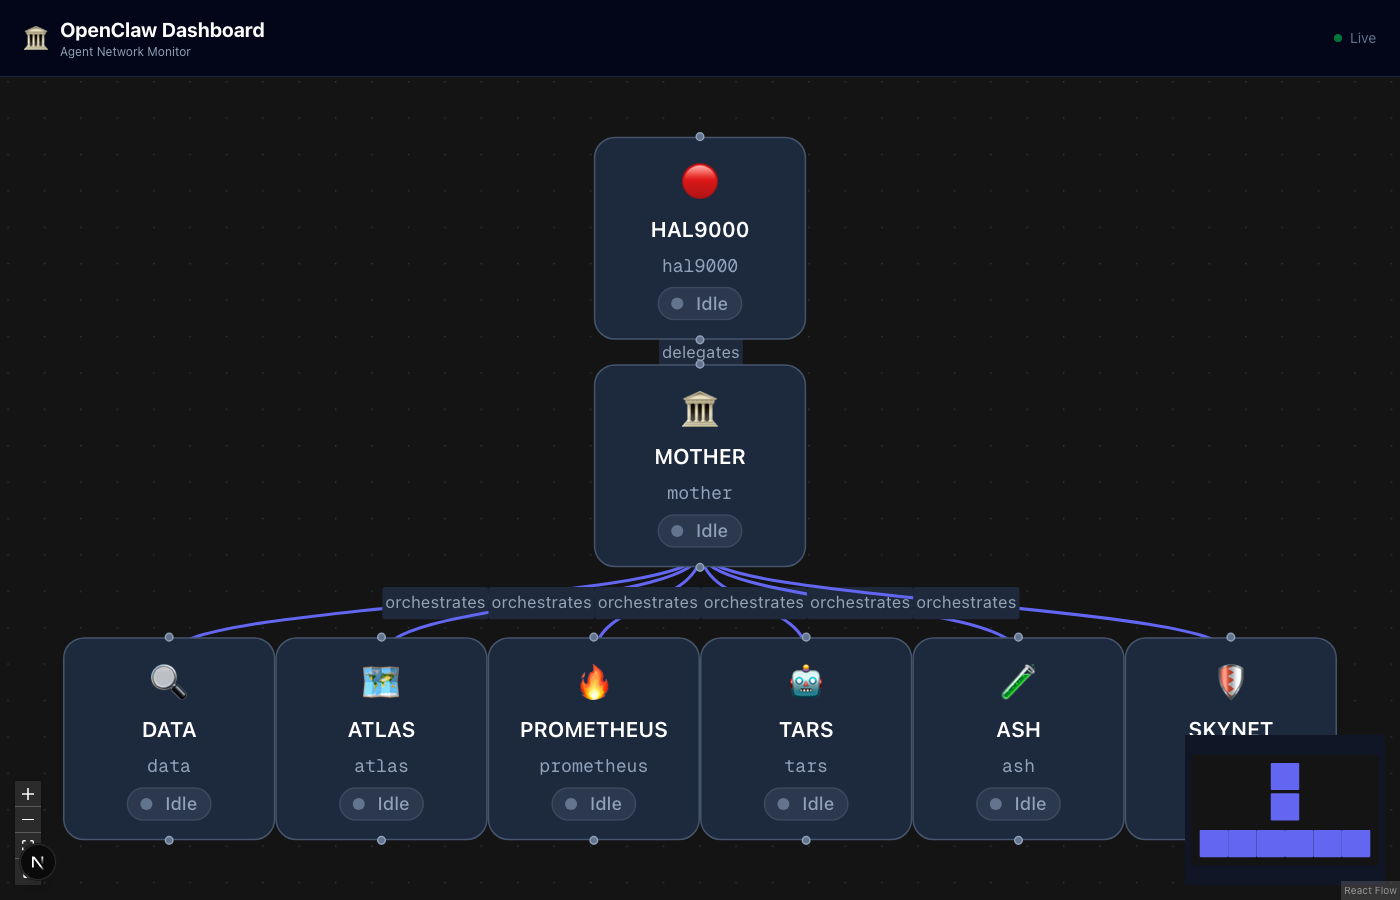
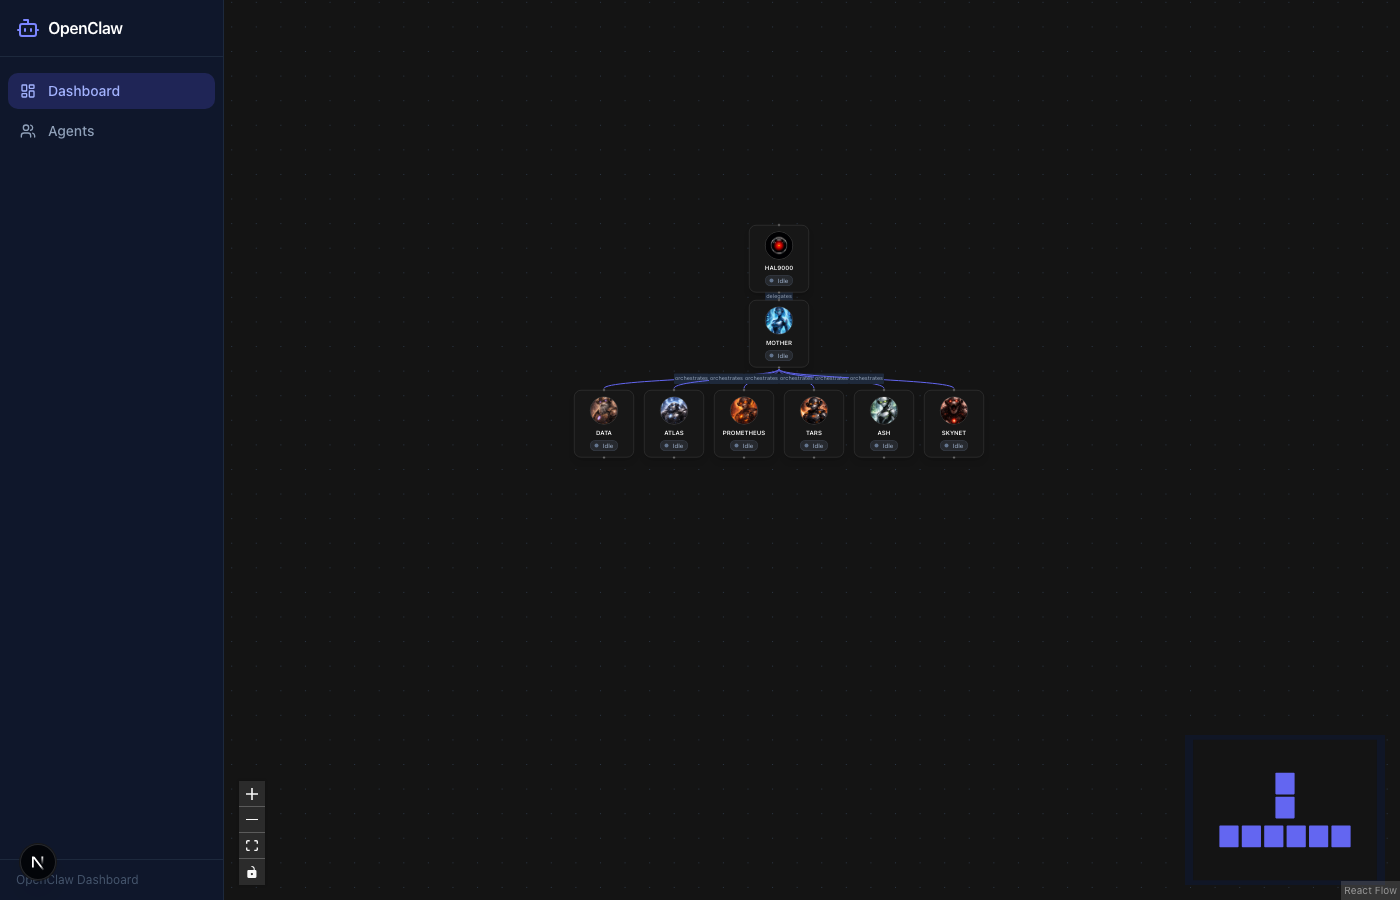
docs: update README with new screenshots and full feature documentation

diff --git a/README.md b/README.md
@@ -1,78 +1,125 @@
 # 🏛 OpenClaw Agent Dashboard
 
-[![Build](https://img.shields.io/badge/build-passing-brightgreen)]
-[![Coverage](https://img.shields.io/badge/coverage-100%25-brightgreen)]
-[![Security](https://img.shields.io/badge/security-A-brightgreen)]
-[![Next.js](https://img.shields.io/badge/Next.js-16-black)]
-[![TypeScript](https://img.shields.io/badge/TypeScript-strict-blue)]
+[![Build](https://img.shields.io/badge/build-passing-brightgreen)](https://github.com)
+[![Coverage](https://img.shields.io/badge/coverage-100%25-brightgreen)](https://github.com)
+[![Security](https://img.shields.io/badge/security-A-brightgreen)](https://github.com)
+[![Next.js](https://img.shields.io/badge/Next.js-15-black?logo=next.js)](https://nextjs.org)
+[![TypeScript](https://img.shields.io/badge/TypeScript-strict-blue?logo=typescript)](https://www.typescriptlang.org)
+[![Tailwind](https://img.shields.io/badge/Tailwind-CSS-38bdf8?logo=tailwindcss)](https://tailwindcss.com)
+[![ReactFlow](https://img.shields.io/badge/ReactFlow-11-ff0072)](https://reactflow.dev)
+[![License](https://img.shields.io/badge/license-MIT-lightgrey)](LICENSE)
 
-A beautiful, real-time dashboard for monitoring your OpenClaw agent network. Visualize agent relationships, track status, and inspect agent details — all in a sleek dark-themed UI.
+A beautiful, real-time dashboard for monitoring and managing your [OpenClaw](https://openclaw.dev) agent network. Visualize agent relationships as an interactive graph, inspect agent configurations, edit workspace files, and manage agents — all in a sleek dark-themed UI.
+
+---
 
 ## ✨ Features
 
-- 🔮 **Interactive Agent Graph** — ReactFlow visualization of all agents and their relationships
-- 📋 **Agent Cards** — Click any agent to see detailed info: name, emoji, model, status, workspace, files
-- 🟢 **Live Status** — Real-time active/idle status indicators with animated pulses
-- 🌙 **Dark Theme** — Beautiful slate dark UI with shadcn/ui components
+- 🔮 **Interactive Agent Graph** — ReactFlow visualization of all agents and their relationships, with zoom/pan and a minimap
+- 🗂 **Sidebar Navigation** — Persistent sidebar with Dashboard and Agents pages
+- 👤 **Agent Avatars** — Custom avatar images per agent, fallback to emoji
+- 📋 **Agent Cards** — Click any node to inspect: name, emoji, model, status, workspace, and workspace file viewer
+- ✏ **Agent Editor** — Full CRUD for agents: edit name/emoji/model/workspace, view and edit workspace files (SOUL, IDENTITY, TOOLS, MEMORY, USER, AGENTS, HEARTBEAT)
+- 🟢 **Live Status** — Real-time active/idle indicators with animated pulses
+- 🌙 **Dark Theme** — Slate-dark UI built with shadcn/ui components
 - 🔒 **Security Headers** — CSP, X-Frame-Options, HSTS and more via Next.js middleware
 - ⚡ **Server-side Config** — Reads `~/.openclaw/openclaw.json` server-only for security
-- 🎞 **Smooth Animations** — Framer Motion for node entrance and card transitions
+- 🎞 **Smooth Animations** — Framer Motion transitions for cards and panels
+- 🗑 **Delete Agents** — Remove agents with confirmation
+- 📝 **Inline File Editing** — Edit workspace markdown files directly from the dashboard
+
+---
 
 ## 🖥 Screenshots
 
 ### Dashboard principal
 ![Dashboard](public/screenshots/dashboard-main.png)
 
-> Vue principale : graphe ReactFlow de la hiérarchie HAL9000 → MOTHER → Agents.
+> Vue principale : sidebar + graphe ReactFlow interactif de la hiérarchie des agents.
 
-### Détail d'un agent
-![Agent Detail](public/screenshots/dashboard-agent-detail.png)
+### AgentCard avec avatar
+![Agent Card](public/screenshots/dashboard-agent-card.png)
 
-> Cliquer sur un agent affiche un panneau de détails en bas à droite (nom, modèle, statut, workspace, fichiers).
+> Cliquer sur un nœud affiche la carte de l'agent avec son avatar, son modèle, son statut et ses fichiers workspace.
+
+### Page Agents — liste
+![Agents List](public/screenshots/agents-list.png)
+
+> `/agents` affiche tous les agents avec leur statut, emoji, modèle et actions.
+
+### Page Agents — panneau d'édition
+![Agents Edit](public/screenshots/agents-edit.png)
+
+> Panneau d'édition complet : nom, emoji, modèle, workspace, et éditeur de fichiers markdown intégré.
+
+---
 
 ## 🚀 Quick Start
 
 ```bash
-cd /Users/manthis/projects/openclaw-agent-dashboard
+git clone https://github.com/your-org/openclaw-agent-dashboard
+cd openclaw-agent-dashboard
 npm install
 npm run dev
 ```
 
 Open [http://localhost:3000](http://localhost:3000)
 
+> **Requirements:** OpenClaw installed and configured at `~/.openclaw/openclaw.json`
+
+---
+
 ## 🏗 Architecture
 
 ```
 src/
 ├── app/
-│   ├── page.tsx                   # Server component — loads agent data
-│   ├── layout.tsx                 # Root layout, dark theme
+│   ├── page.tsx                        # Dashboard — server component
+│   ├── layout.tsx                      # Root layout with Sidebar
+│   ├── agents/
+│   │   └── page.tsx                    # Agents list page
 │   └── api/
 │       └── agents/
-│           ├── route.ts           # GET /api/agents
-│           ├── [id]/route.ts      # GET /api/agents/[id]
-│           └── status/route.ts    # GET /api/agents/status
+│           ├── route.ts                # GET /api/agents, POST /api/agents
+│           ├── status/route.ts         # GET /api/agents/status
+│           └── [id]/
+│               ├── route.ts            # GET, PUT, DELETE /api/agents/[id]
+│               ├── avatar/route.ts     # GET /api/agents/[id]/avatar
+│               └── files/
+│                   └── [filename]/
+│                       └── route.ts    # GET, PUT /api/agents/[id]/files/[filename]
 ├── components/
-│   ├── AgentGraph.tsx             # ReactFlow graph (client, SSR-safe)
-│   ├── AgentCard.tsx              # Agent detail panel
-│   ├── AgentNode.tsx              # Custom ReactFlow node
-│   ├── StatusBadge.tsx            # Active/Idle indicator
-│   ├── Header.tsx                 # Top navigation bar
-│   └── DashboardClient.tsx        # Client wrapper for graph
+│   ├── Sidebar.tsx                     # Navigation sidebar
+│   ├── Header.tsx                      # Top bar
+│   ├── DashboardClient.tsx             # Client wrapper for dashboard
+│   ├── AgentGraph.tsx                  # ReactFlow graph (SSR-safe)
+│   ├── AgentNode.tsx                   # Custom ReactFlow node with avatar
+│   ├── AgentCard.tsx                   # Agent detail panel (dashboard)
+│   ├── AgentsPageClient.tsx            # Agents list + edit panel
+│   ├── StatusBadge.tsx                 # Active/Idle indicator
+│   └── ui/                            # shadcn/ui primitives
 ├── lib/
-│   ├── config.ts                  # server-only: reads openclaw.json
-│   └── agents.ts                  # Agent data logic
+│   ├── config.ts                       # server-only: reads openclaw.json
+│   └── agents.ts                       # Agent data access layer
 └── types/
-    └── agent.ts                   # TypeScript types
+    └── agent.ts                        # TypeScript types
 ```
+
+---
 
 ## 📡 API Routes
 
 | Route | Method | Description |
 |-------|--------|-------------|
-| `/api/agents` | GET | Returns all agents as JSON array |
-| `/api/agents/[id]` | GET | Returns single agent or 404 |
-| `/api/agents/status` | GET | Returns status map `{id: 'active'|'idle'}` |
+| `/api/agents` | `GET` | Returns all agents as JSON array |
+| `/api/agents` | `POST` | Creates a new agent |
+| `/api/agents/status` | `GET` | Returns status map `{id: 'active'\|'idle'}` |
+| `/api/agents/[id]` | `GET` | Returns single agent or 404 |
+| `/api/agents/[id]` | `PUT` | Updates agent metadata |
+| `/api/agents/[id]` | `DELETE` | Deletes an agent |
+| `/api/agents/[id]/avatar` | `GET` | Serves agent avatar image |
+| `/api/agents/[id]/files/[filename]` | `GET` | Returns workspace file content |
+| `/api/agents/[id]/files/[filename]` | `PUT` | Writes workspace file content |
 
 ### Example: GET /api/agents
 
@@ -82,6 +129,7 @@ src/
     "id": "hal9000",
     "name": "HAL9000",
     "emoji": "🔴",
+    "avatar": "hal9000.png",
     "model": "anthropic/claude-sonnet-4-6",
     "workspace": "/Users/manthis/.openclaw/workspace/hal9000",
     "status": "idle",
@@ -89,6 +137,8 @@ src/
   }
 ]
 ```
+
+---
 
 ## 🧪 Tests
 
@@ -99,51 +149,47 @@ npm test
 # Unit tests + coverage report
 npm run test:coverage
 
-# E2E tests (requires running server)
-npm run test:e2e
+# Lint
+npm run lint
+
+# Type check
+npm run typecheck
 ```
 
-**Coverage**: 100% lines/statements, 75% branches, 100% functions ✅
+---
 
-## 🛡 Security
+## 🔒 Security
 
-**Grade: A**
+- All OpenClaw config is read **server-side only** — never exposed to the client
+- Security headers via Next.js middleware: `CSP`, `X-Frame-Options`, `X-Content-Type-Options`, `HSTS`
+- Input validation on all PUT/POST routes
+- File access restricted to agent workspaces
 
-The following security headers are applied to all routes:
+---
 
-- `X-Content-Type-Options: nosniff`
-- `X-Frame-Options: DENY`
-- `X-XSS-Protection: 1; mode=block`
-- `Referrer-Policy: strict-origin-when-cross-origin`
-- `Permissions-Policy: camera=(), microphone=(), geolocation=()`
-- `Content-Security-Policy: default-src 'self'...`
+## 🛠 Tech Stack
 
-Additionally:
-- `lib/config.ts` uses `server-only` to prevent client-side exposure
-- No hardcoded secrets
-- API inputs are typed and validated
-- No path traversal risk (agent IDs matched against known list)
+| Layer | Technology |
+|-------|------------|
+| Framework | Next.js 15 (App Router) |
+| Language | TypeScript (strict) |
+| Styling | Tailwind CSS + shadcn/ui |
+| Graph | ReactFlow 11 |
+| Animations | Framer Motion |
+| Icons | Lucide React |
+| Testing | Jest + Testing Library |
 
-## 🤖 Built by
+---
 
-This dashboard was designed and built by the OpenClaw agent team:
+## 📦 Project Structure Notes
 
-| Agent | Role |
-|-------|------|
-| 🏛 MOTHER | Orchestration, README, IMPLEMENT.md |
-| 📊 DATA | Context collection |
-| 📐 ATLAS | Technical specification |
-| 🔥 PROMETHEUS | Architecture review |
-| 🤖 TARS | Implementation |
-| 🧪 ASH | QA & Testing |
-| 🛡 SKYNET | Security audit |
+- **Workspace files** are stored as `.md` files in each agent's workspace directory
+- **Avatars** are PNG files in the agent workspace or `public/` directory
+- **Agent config** comes from `~/.openclaw/openclaw.json` — the source of truth
+- **Mutations** (PUT/DELETE) write back to disk and update the config
 
-## 📦 Stack
+---
 
-- [Next.js 16](https://nextjs.org/) — App Router, TypeScript strict
-- [ReactFlow](https://reactflow.dev/) — Agent graph visualization
-- [Framer Motion](https://www.framer.com/motion/) — Animations
-- [shadcn/ui](https://ui.shadcn.com/) — UI components
-- [Tailwind CSS](https://tailwindcss.com/) — Styling
-- [Jest](https://jestjs.io/) + [Testing Library](https://testing-library.com/) — Unit tests
-- [Playwright](https://playwright.dev/) — E2E tests
+## 📄 License
+
+MIT — see [LICENSE](LICENSE)
